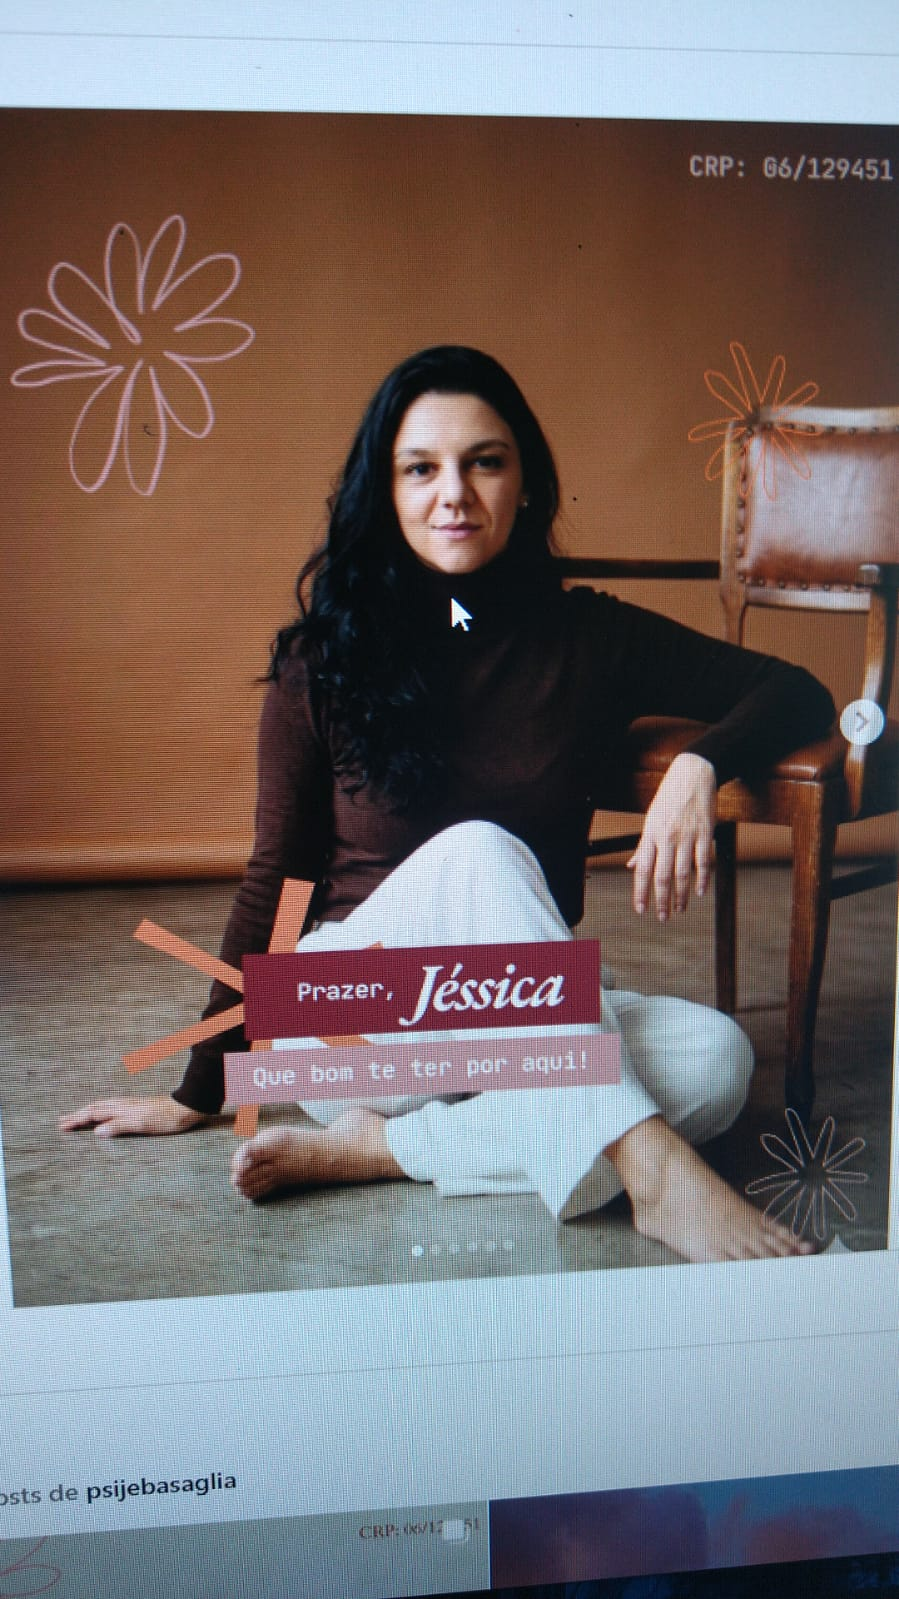
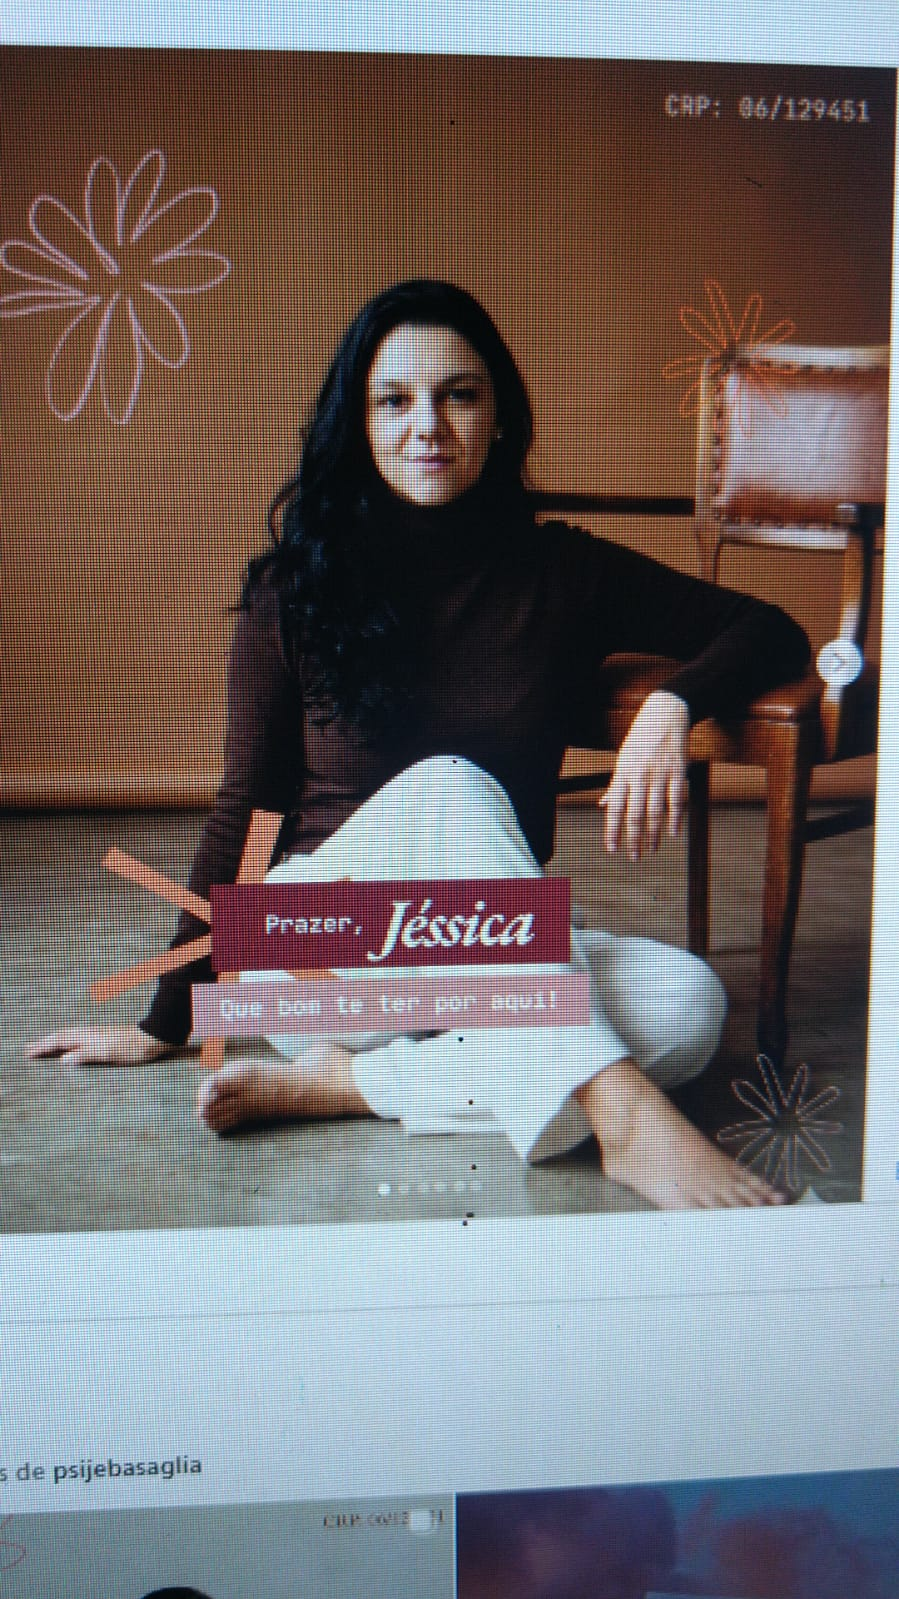
troca foto

diff --git a/index.html b/index.html
@@ -81,14 +81,13 @@
 
                 </div>
 
+<div class="inicio-foto">
 
-                <div class="inicio-foto">
+    <div class="foto-placeholder">
+        <img src="imagens/foto-jessica.jpeg" alt="Jéssica Basaglia - Psicóloga">
+    </div>
 
-                    <div class="foto-placeholder">
-                        <span>Foto profissional</span>
-                    </div>
-
-                </div>
+</div>
 
             </div>
 
